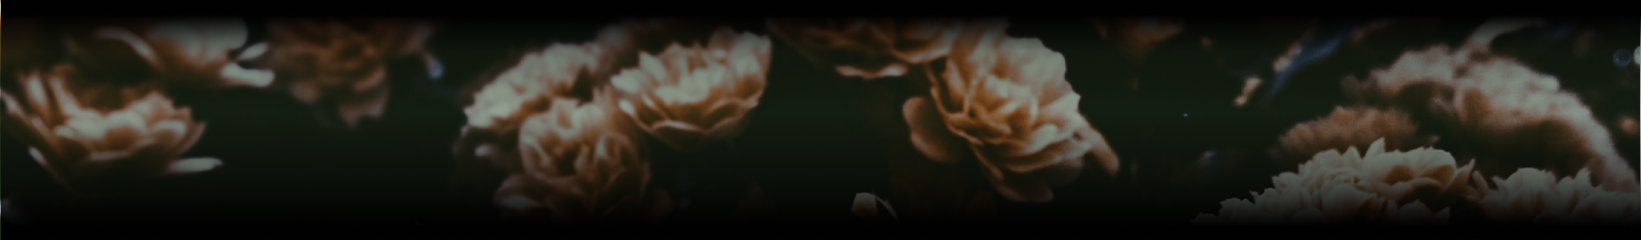
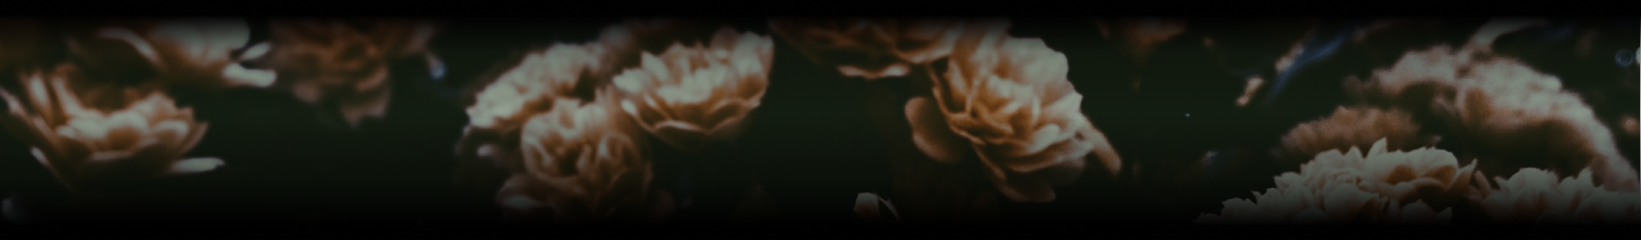
Add music section, need photo

diff --git a/abbigale-dawn-gravel-portfolio/src/MainPage/Music/Music.js b/abbigale-dawn-gravel-portfolio/src/MainPage/Music/Music.js
@@ -1,0 +1,43 @@
+import "./Music.css";
+
+export const Music = () => {
+  const spotifyLink = "https://open.spotify.com/artist/7qM84pzkfHaWQmxW9KoE8P";
+
+  return (
+    <div className="music-container">
+      <div className="music-header-container">
+        <h1 className="music-header-text">Music</h1>
+      </div>
+      <div className="main-music-section">
+        <p>
+          I built a career for myself as a singer-songwriter in my home state of
+          Oklahoma, where I traveled throughout the counties performing at a
+          variety of venues and locations. I managed my own booking, press, and
+          merchandise, then went on to manage a full band.
+          <p>
+            I currently make music in Colorado as a solo artist along with duo,
+            trio, and full band setups. I enjoy producing my own tracks and
+            organizing my own releases, along with designing and creating my own
+            merch.
+          </p>
+        </p>
+        <div className="split-music-section-view">
+          <p className="split-music-section-text">
+            Being a musician has given me the oppourtunity to observe the way
+            people interact with art, and an understanding of what it means to
+            audibly design.
+          </p>
+          <div className="split-music-section-image"></div>
+        </div>
+        <div className="music-button-container">
+          <button
+            className="music-button"
+            onClick={() => window.open(spotifyLink, "_blank")}
+          >
+            LISTEN ON SPOTIFY
+          </button>
+        </div>
+      </div>
+    </div>
+  );
+};

diff --git a/abbigale-dawn-gravel-portfolio/src/MainPage/MainPage.js b/abbigale-dawn-gravel-portfolio/src/MainPage/MainPage.js
@@ -1,15 +1,14 @@
 import { MainNavHeader } from "./MainNavHeader/MainNavHeader";
 import { Profile } from "./Profile/Profile";
-
+import { Music } from "./Music/Music";
 import { CaseStudies } from "./Work/CaseStudies/CaseStudies";
 import { TechSkills } from "./Work/TechSkills/TechSkills";
 import { SoftSkills } from "./Work/SoftSkills/SoftSkills";
 import { WorkMainUXUI } from "./Work/WorkMainUXUI/WorkMainUXUI";
-import arrow from "../images/arrow.png";
-
-// import { Work } from "./Work/Work";
 import { Contact } from "./Contact/Contact";
 import { Footer } from "./Footer/Footer";
+
+import arrow from "../images/arrow.png";
 
 import "./MainPage.css";
 import React from "react";
@@ -49,7 +48,9 @@ export class MainPage extends React.Component {
         this.setState({ workToDisplay: this.workToDisplay });
       } else if (position === "realignWork") position = "work";
 
+      console.log(position);
       const scrollTo = document.querySelector(`.${position}`);
+      console.log(scrollTo);
 
       if (!scrollTo) return;
 
@@ -127,10 +128,11 @@ export class MainPage extends React.Component {
               )}
             </div>
           </div>
+          <div className="music">
+            <Music></Music>
+          </div>
         </div>
-        {/* <div className='about'><About></About></div>
-      <div className='skills'><Skills></Skills></div>
-      <div className='contact'><Contact></Contact></div>
+        {/*<div className='contact'><Contact></Contact></div>
       <Footer></Footer> */}
       </div>
     );

diff --git a/abbigale-dawn-gravel-portfolio/src/MainPage/Music/Music.css b/abbigale-dawn-gravel-portfolio/src/MainPage/Music/Music.css
@@ -1,0 +1,61 @@
+.music-container {
+  display: flex;
+  flex-direction: column;
+  align-items: center;
+}
+
+.music-header-container {
+  background-image: url("../../images/music-flowers.png");
+  margin-top: 4vh;
+  width: 100%;
+  height: 24vh;
+  background-size: cover;
+  display: flex;
+  align-items: flex-end;
+  justify-content: center;
+}
+
+.music-header-text {
+  font-size: 2.5vw;
+  color: #ffffff;
+  font-weight: 400;
+}
+
+.main-music-section {
+  color: #ffffff;
+  width: 80%;
+  font-size: 1.5vw;
+  font-weight: 400;
+}
+
+.split-music-section-view {
+  display: flex;
+  height: 30vh;
+  justify-content: space-between;
+}
+
+.split-music-section-text {
+  width: 55%;
+}
+
+.split-music-section-image {
+  width: 42%;
+  background-color: grey;
+}
+
+.music-button-container {
+  width: 100%;
+  display: flex;
+  justify-content: center;
+  margin-top: 3vh;
+}
+
+.music-button {
+  background-color: #a46262;
+  color: #ffffff;
+  font-size: 1vw;
+  height: 5vh;
+  width: 14vw;
+  border-radius: 15px;
+  cursor: pointer;
+}

diff --git a/abbigale-dawn-gravel-portfolio/src/MainPage/MainNavHeader/MainNavHeader.js b/abbigale-dawn-gravel-portfolio/src/MainPage/MainNavHeader/MainNavHeader.js
@@ -21,7 +21,6 @@ export class MainNavHeader extends React.Component {
     };
     const logoLinks = {
       linkedIn: "https://www.linkedin.com/in/abbigale-gravel-3287711b8/",
-      googlePlus: "https://www.google.com/",
       spotify: "https://open.spotify.com/artist/7qM84pzkfHaWQmxW9KoE8P",
     };
 

diff --git a/abbigale-dawn-gravel-portfolio/src/MainPage/MainPage.css b/abbigale-dawn-gravel-portfolio/src/MainPage/MainPage.css
@@ -19,6 +19,10 @@
   width: 100%;
 }
 
+.music {
+  width: 100%;
+}
+
 .ux-ui-header-container {
   background-image: url("../images/uxui-header-flowers.png");
 }
